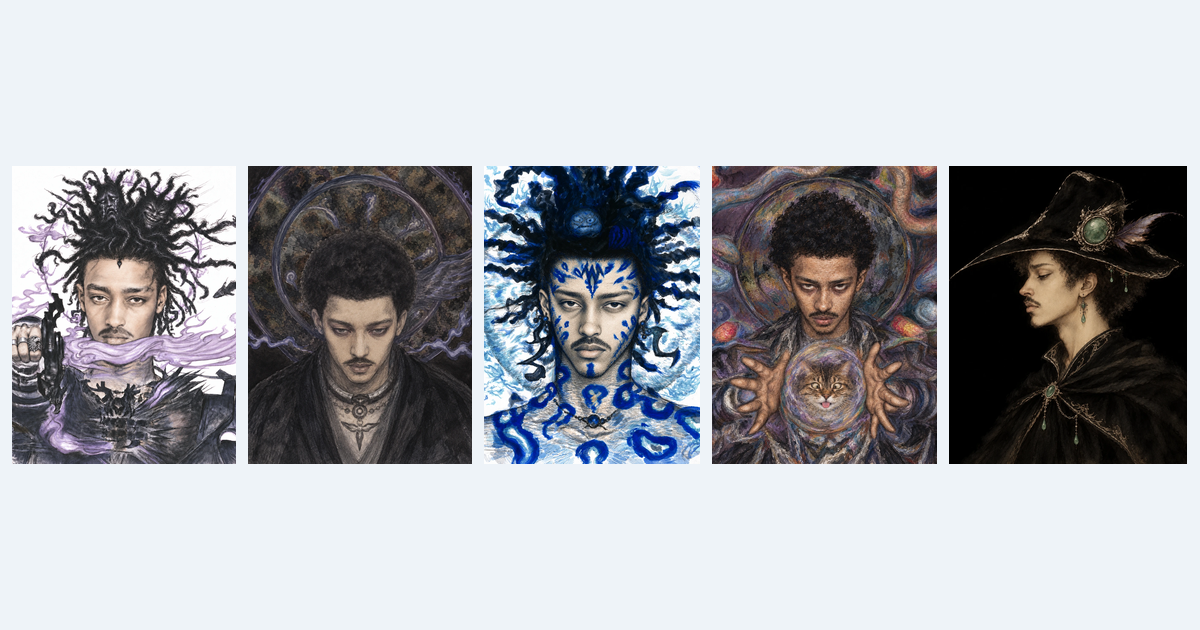
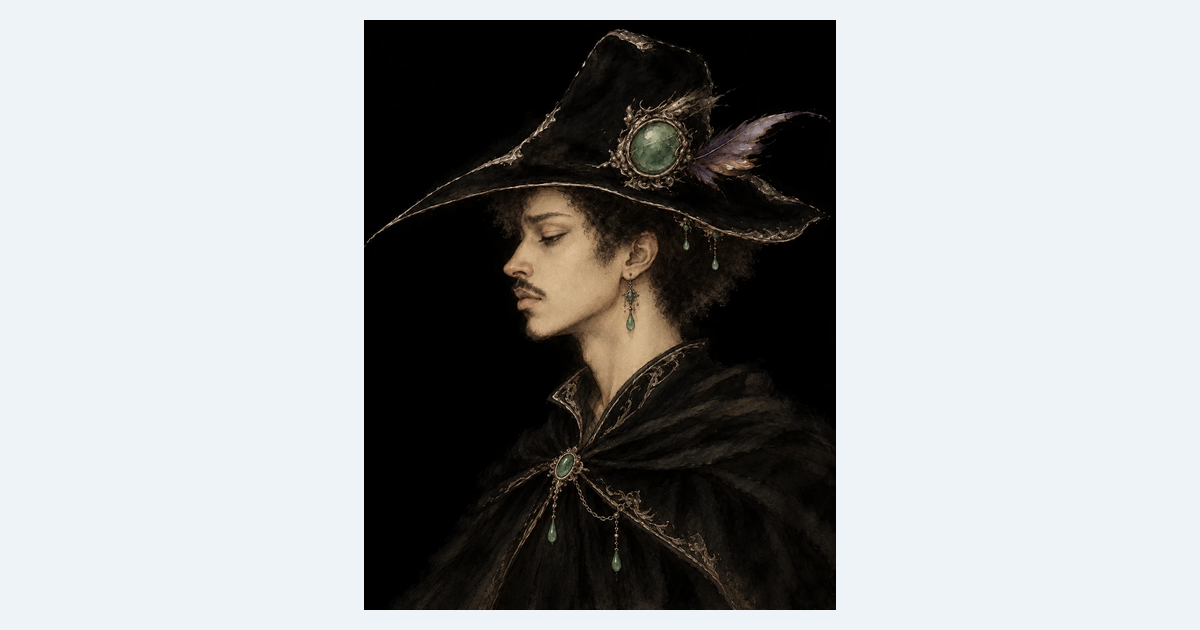
Only the portrait in the hat on the home page (and in the share picture)

diff --git a/site/blog.css b/site/blog.css
@@ -93,7 +93,7 @@ main { position: relative; z-index: 2; margin-left: var(--side); min-height: 100
 .poster-title em, .sheet h1 em { font-weight: 400; }
 .poster-rule { position: relative; height: 12px; margin: 14px auto 18px; width: 86%; background: linear-gradient(var(--ink), var(--ink)) 0 50% / 100% 1.4px no-repeat; }
 .poster-rule::after { content: ""; position: absolute; left: 50%; top: 50%; width: 10px; height: 10px; background: var(--ink); transform: translate(-50%, -50%) rotate(45deg); }
-.portrait { position: relative; aspect-ratio: 3 / 4; background: #f6f9fc; box-shadow: 0 1px 0 rgba(23, 22, 28, .08), 0 30px 60px -30px rgba(40, 55, 80, .4); overflow: hidden; }
+.portrait { position: relative; aspect-ratio: 1122 / 1402; background: #f6f9fc; box-shadow: 0 1px 0 rgba(23, 22, 28, .08), 0 30px 60px -30px rgba(40, 55, 80, .4); overflow: hidden; }
 .portrait img, .portrait canvas { position: absolute; inset: 0; width: 100%; height: 100%; object-fit: cover; }
 /* once hung, the portraits are shown whole, as they were painted, in one frame, each fading in over the last */
 .portrait.hung { background: #10131a; }

diff --git a/site/blog.js b/site/blog.js
@@ -225,7 +225,7 @@
 
   // The portraits take turns. The first is shown as soon as it loads; the others are fetched after it, and each
   // fades in over the last every ROTATE milliseconds while the home page is open and can be seen.
-  const PORTRAITS = ["/site/portrait-1.webp?v=3", "/site/portrait-2.webp?v=3", "/site/portrait-3.webp?v=3", "/site/portrait-4.webp?v=3", "/site/portrait-5.webp?v=3"], ROTATE = 9000;
+  const PORTRAITS = ["/site/portrait-5.webp?v=3"], ROTATE = 9000;
   let rotation = 0;
   function hang(box) {
     clearInterval(rotation);

diff --git a/index.html b/index.html
@@ -8,7 +8,7 @@
 <meta name="theme-color" content="#eaf0f6">
 <meta property="og:title" content="Half Life">
 <meta property="og:description" content="Thoughts and photographs, kept while everything changes.">
-<meta property="og:image" content="https://halflife.studio/og.png?v=6">
+<meta property="og:image" content="https://halflife.studio/og.png?v=7">
 <meta property="og:type" content="website">
 <meta name="twitter:card" content="summary_large_image">
 <link rel="preconnect" href="https://fonts.googleapis.com">
